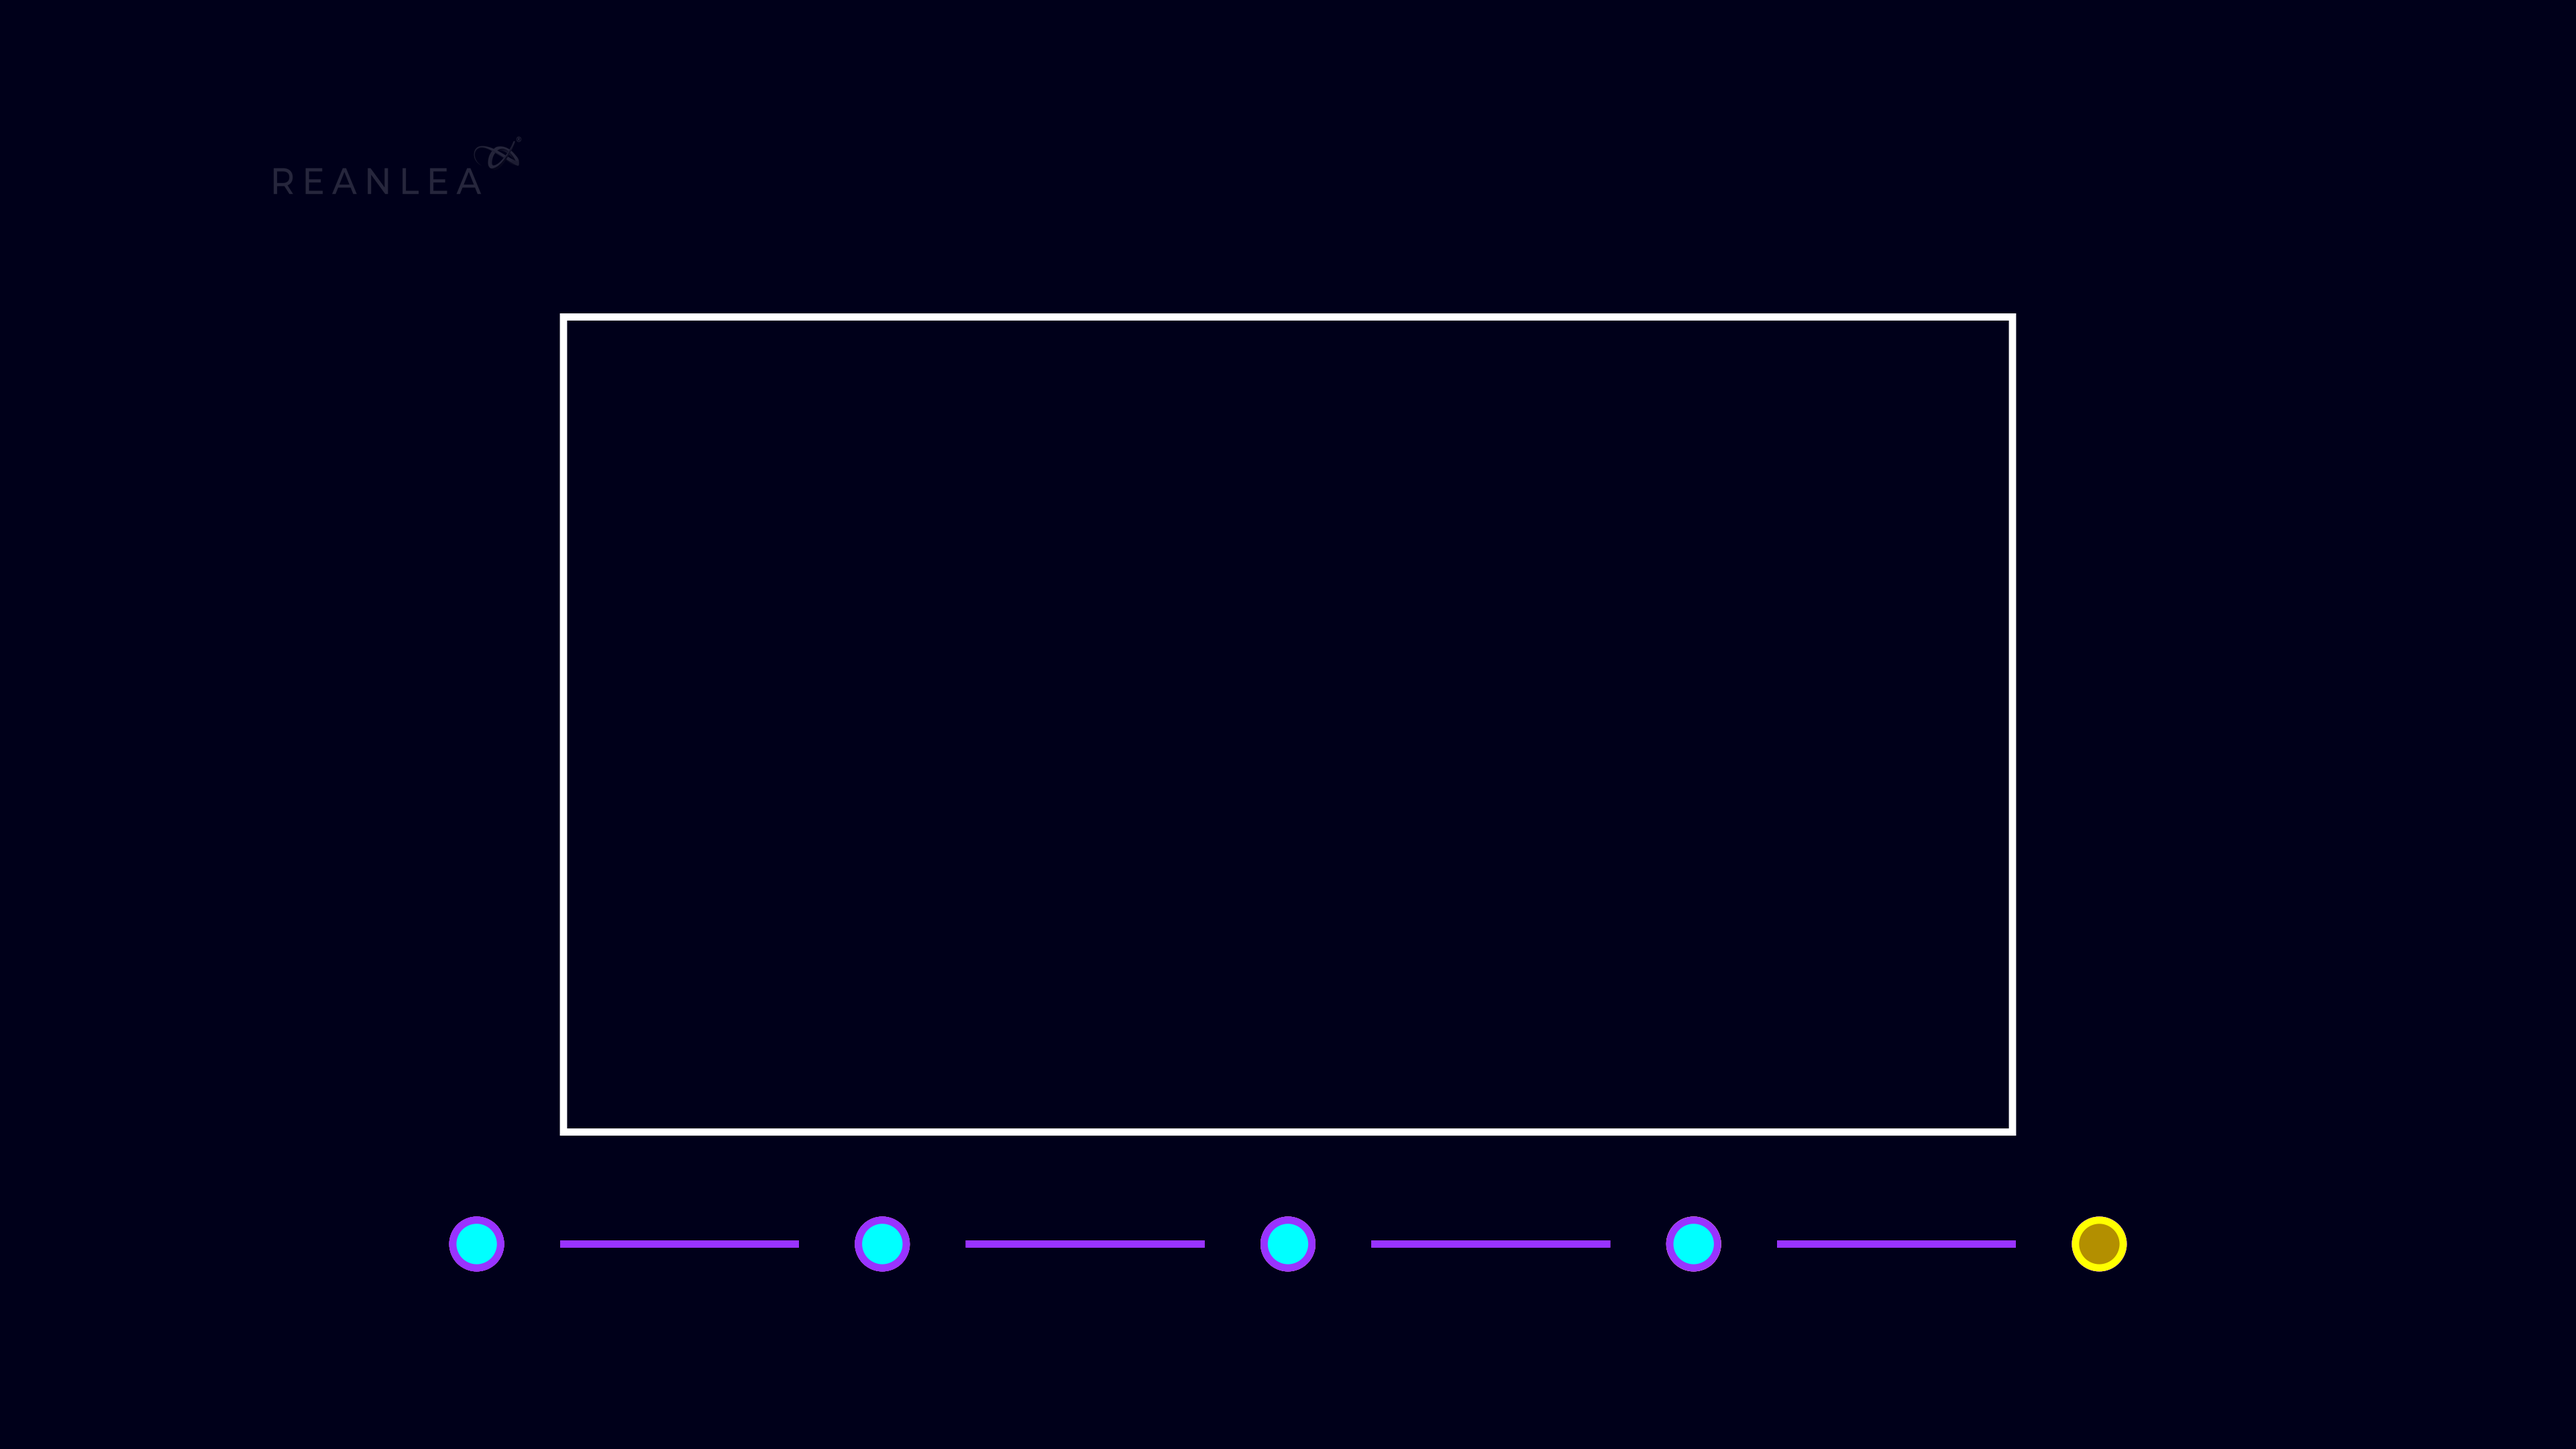
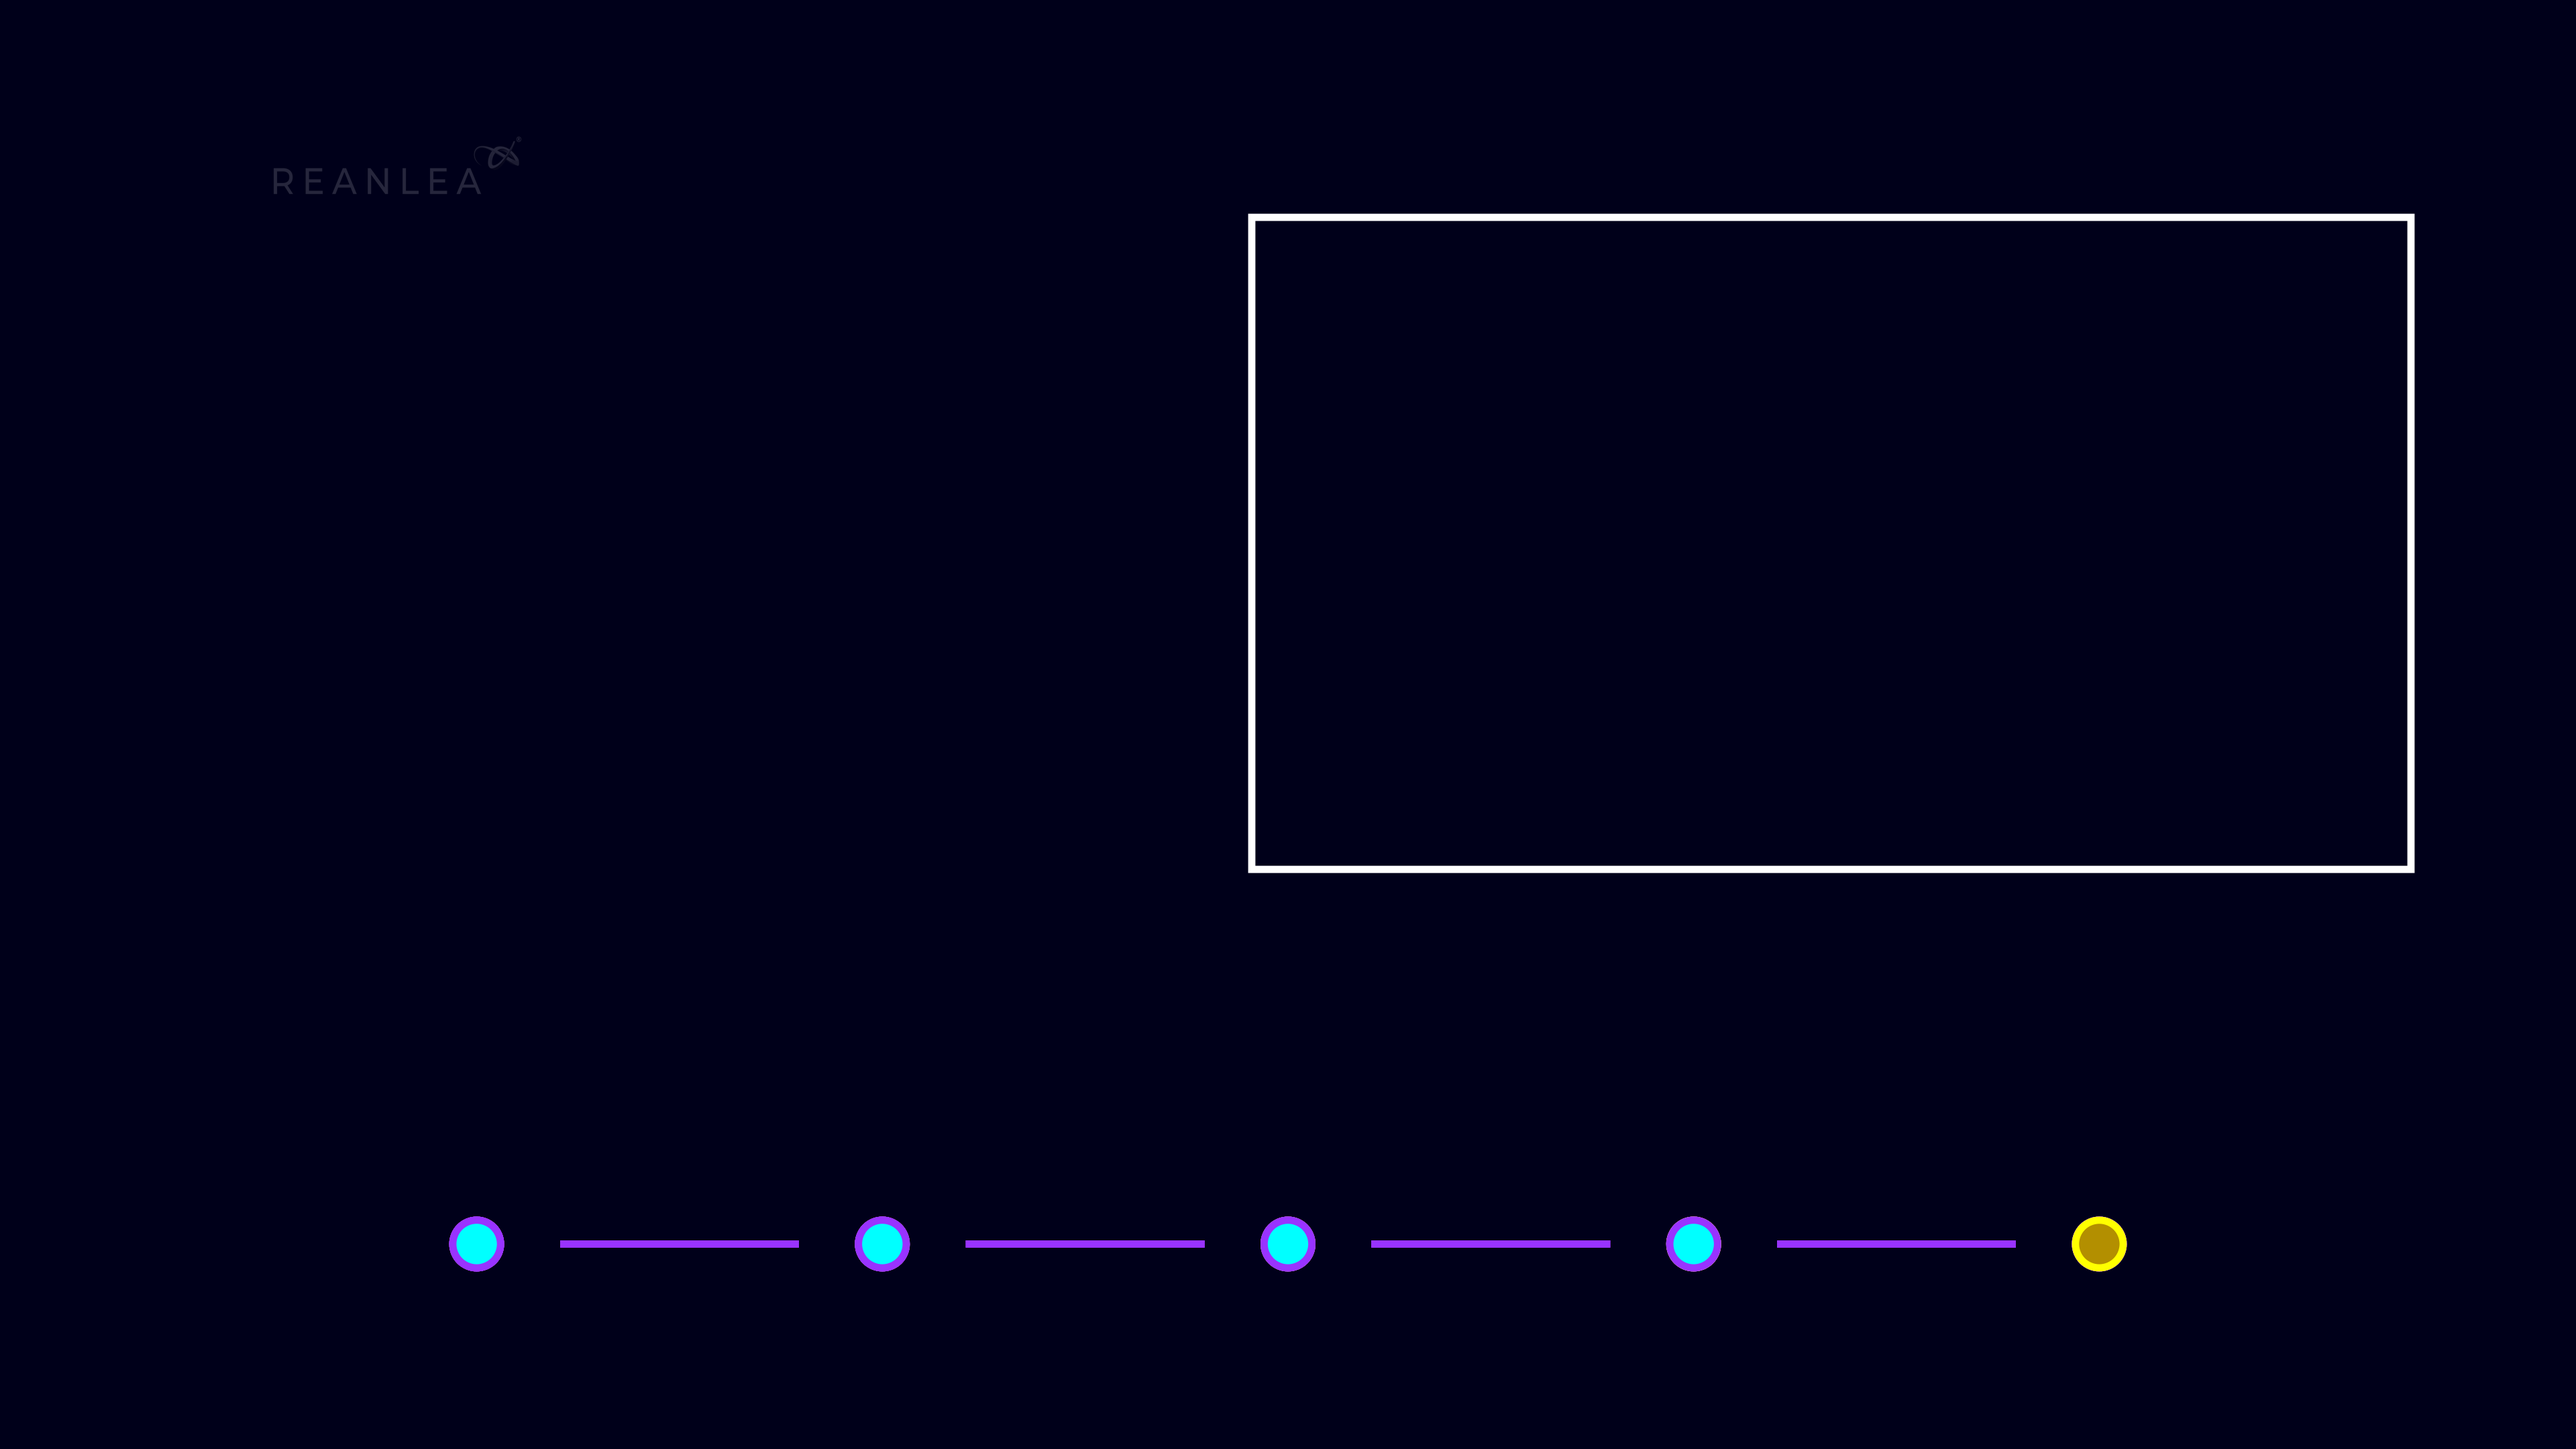
1

diff --git a/2022/Compact Matrix/test2.py b/2022/Compact Matrix/test2.py
@@ -8199,7 +8199,7 @@ class TransitionTemplate_2(Scene):
 
         # MAIN SCENE
 
-        rect=Rectangle(height=4.5, width=8).shift(UP+3*RIGHT)
+        rect=Rectangle(height=4.5, width=8).scale(.8).shift(UP+3*RIGHT)
         self.play(
             Create(rect)
         )
